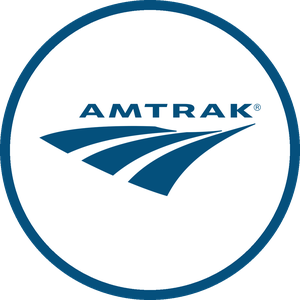
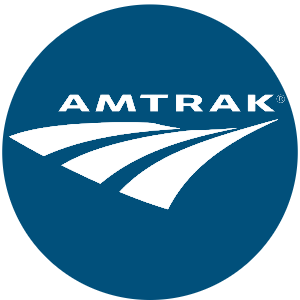
Popover close buttons, new Amtrak artwork, Newark AirTrain P3
- Smaller versions and Custom layouts popovers get an X close button;
  the smaller-versions card no longer has a collapse toggle there.
- Amtrak line icon and sidebar header replaced with the supplied artwork.
- Newark AirTrain: add the P3 station (position from OpenStreetMap).

Claude-Session: https://claude.ai/code/session_01SUZTVHq1bRQAVD1bcUbRNt

diff --git a/src/components/MiniCityLinksPanel.tsx b/src/components/MiniCityLinksPanel.tsx
@@ -34,6 +34,8 @@ type MiniCityLinksPanelProps = {
   items: MiniCityLinkItem[]
   currentSlug?: string | null
   defaultExpanded?: boolean
+  /** false: always open, no expand/collapse toggle (e.g. inside a popover). */
+  collapsible?: boolean
   onOpenCustomModal?: () => void
 }
 
@@ -43,11 +45,13 @@ const MiniCityLinksPanel = ({
   items,
   currentSlug,
   defaultExpanded = true,
+  collapsible = true,
   onOpenCustomModal,
 }: MiniCityLinksPanelProps) => {
   const router = useRouter()
   const { t } = useTranslation()
-  const [expanded, setExpanded] = useState(defaultExpanded)
+  const [expandedState, setExpanded] = useState(defaultExpanded)
+  const expanded = collapsible ? expandedState : true
   const normalizeOptionLabel = (value: string) =>
     value
       .replace(/\uFF09[\s\u00A0\u2000-\u200B\u202F\u205F\u3000]+\)/g, '\uFF09)')
@@ -82,9 +86,10 @@ const MiniCityLinksPanel = ({
     <section className="rounded-2xl border border-zinc-200 bg-zinc-50/90 p-4 shadow-sm dark:border-[#18181b] dark:bg-zinc-900/60">
       <button
         type="button"
-        onClick={() => setExpanded((prev) => !prev)}
-        className="flex w-full items-start justify-between gap-4 text-left"
-        aria-expanded={expanded}
+        onClick={collapsible ? () => setExpanded((prev) => !prev) : undefined}
+        disabled={!collapsible}
+        className="flex w-full items-start justify-between gap-4 text-left disabled:cursor-default"
+        aria-expanded={collapsible ? expanded : undefined}
       >
         <div className="min-w-0">
           <h3 className="text-sm font-semibold uppercase tracking-wide text-zinc-800 dark:text-zinc-100">
@@ -96,12 +101,14 @@ const MiniCityLinksPanel = ({
             </p>
           ) : null}
         </div>
-        <span
-          className="inline-flex h-8 w-8 shrink-0 items-center justify-center rounded-full border border-zinc-300 bg-white text-base font-semibold text-zinc-600 transition hover:border-[var(--accent-400)] hover:text-[var(--accent-700)] dark:border-zinc-700 dark:bg-zinc-950 dark:text-zinc-300 dark:hover:border-[var(--accent-500)] dark:hover:text-[var(--accent-300)]"
-          aria-hidden="true"
-        >
-          <MiniCityChevron expanded={expanded} />
-        </span>
+        {collapsible ? (
+          <span
+            className="inline-flex h-8 w-8 shrink-0 items-center justify-center rounded-full border border-zinc-300 bg-white text-base font-semibold text-zinc-600 transition hover:border-[var(--accent-400)] hover:text-[var(--accent-700)] dark:border-zinc-700 dark:bg-zinc-950 dark:text-zinc-300 dark:hover:border-[var(--accent-500)] dark:hover:text-[var(--accent-300)]"
+            aria-hidden="true"
+          >
+            <MiniCityChevron expanded={expanded} />
+          </span>
+        ) : null}
       </button>
       {expanded ? (
         <div className="mt-3 space-y-3">

diff --git a/src/components/ToolbarPopoverButton.tsx b/src/components/ToolbarPopoverButton.tsx
@@ -2,6 +2,7 @@
 
 import { ReactNode, useEffect, useId, useRef, useState } from 'react'
 import type { IconType } from 'react-icons'
+import { MdClose } from 'react-icons/md'
 
 /**
  * Round map-toolbar button (same look as the theme button) whose label slides
@@ -65,7 +66,17 @@ export default function ToolbarPopoverButton({
           id={panelId}
           className={`absolute right-0 top-full z-[60] mt-2 max-h-[70vh] overflow-y-auto rounded-2xl bg-white shadow-xl ring-1 ring-zinc-200 dark:bg-zinc-900 dark:ring-zinc-700 ${panelClassName}`}
         >
-          {children}
+          <button
+            type="button"
+            onClick={() => setOpen(false)}
+            aria-label="Close"
+            title="Close"
+            className="absolute right-3 top-3 z-10 inline-flex h-8 w-8 items-center justify-center rounded-full border border-zinc-300 bg-white text-zinc-600 transition hover:border-[var(--accent-400)] hover:text-[var(--accent-700)] focus:outline-none focus:ring-2 focus:ring-[var(--accent-ring)] dark:border-zinc-700 dark:bg-zinc-950 dark:text-zinc-300 dark:hover:border-[var(--accent-500)] dark:hover:text-[var(--accent-300)]"
+          >
+            <MdClose className="h-4 w-4" aria-hidden="true" />
+          </button>
+          {/* keep the panel's heading clear of the close button */}
+          <div className="[&_h3]:pr-10">{children}</div>
         </div>
       ) : null}
     </div>

diff --git a/src/lib/stationTotals.ts b/src/lib/stationTotals.ts
@@ -124,7 +124,7 @@ export const STATION_TOTALS: Record<string, number> = {
   "neworleans": 145,
   "norfolk": 11,
   "nottingham": 66,
-  "nyc": 1676,
+  "nyc": 1677,
   "nyc-ctrail": 37,
   "nyc-lirr": 206,
   "nyc-mnr": 150,
@@ -133,9 +133,9 @@ export const STATION_TOTALS: Record<string, number> = {
   "nyc-njt": 286,
   "nyc-njt-commuter-rail": 195,
   "nyc-njt-light-rail": 91,
-  "nyc-panynj": 49,
+  "nyc-panynj": 50,
   "nyc-path": 24,
-  "nyc-rapid-transit": 1036,
+  "nyc-rapid-transit": 1037,
   "nyc-subway": 868,
   "okayama": 38,
   "okc": 31,

diff --git a/src/components/GamePage.tsx b/src/components/GamePage.tsx
@@ -6111,6 +6111,7 @@ function GamePageContent({
                       description={relatedVersionsPanel.description}
                       items={relatedVersionsPanel.items}
                       currentSlug={relatedVersionsPanel.currentSlug}
+                      collapsible={false}
                     />
                   </ToolbarPopoverButton>
                 ) : null}

diff --git a/src/app/(game)/north-america/usa/nyc/config.ts b/src/app/(game)/north-america/usa/nyc/config.ts
@@ -307,7 +307,7 @@ export const LINE_GROUPS: LineGroup[] = [
   },
   {
     title: 'Amtrak',
-    titleImage: 'Amtrak.png',
+    titleImage: 'AmtrakHeader.png',
     items: [
       {
         type: 'lines',
